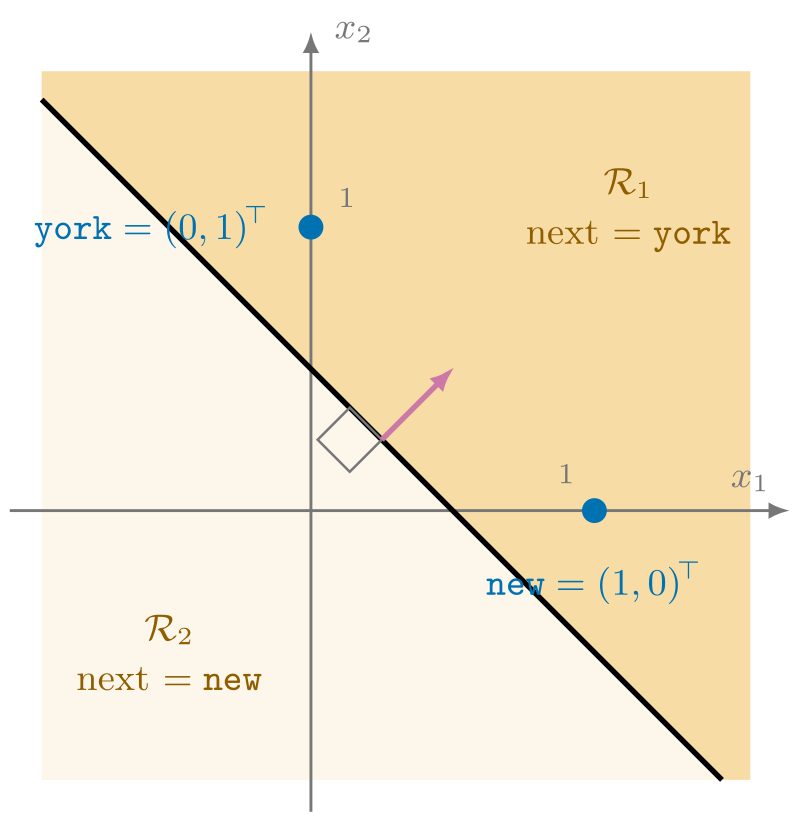
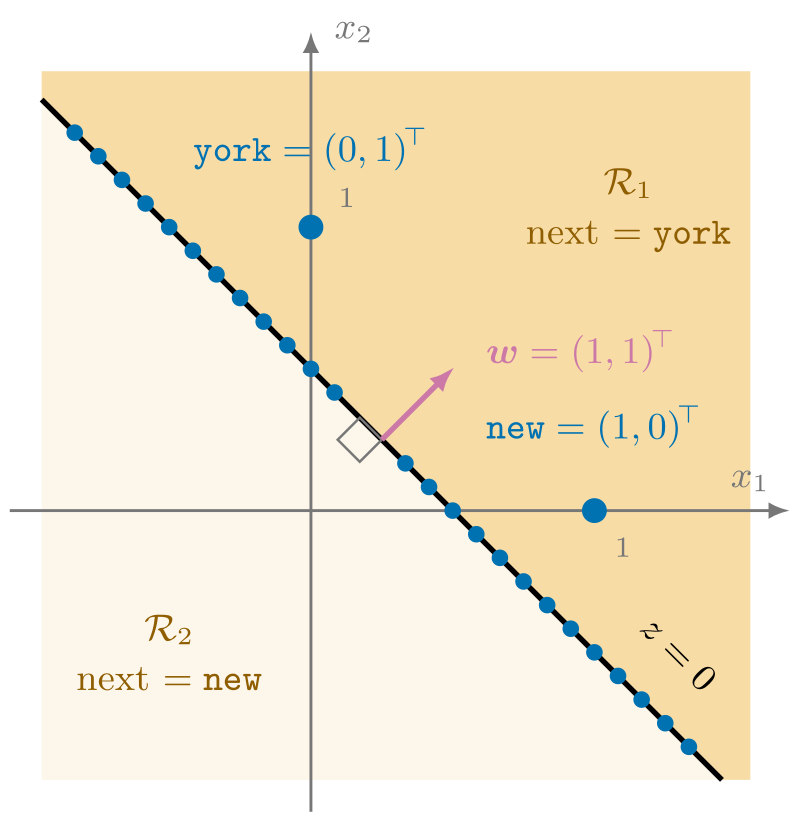
sitp: spec out afterword bridge from borscht to torch

diff --git a/sitp/theme/css/custom.css b/sitp/theme/css/custom.css
@@ -1082,6 +1082,36 @@ html.ayu img.neuron {
   content: url("../../assets/neuron_dark.png");
 }
 
+html.coal img.neuron_linreg,
+html.navy img.neuron_linreg,
+html.ayu img.neuron_linreg {
+  content: url("../../assets/neuron_linreg_dark.png");
+}
+
+html.coal img.discriminant_decisionbad,
+html.navy img.discriminant_decisionbad,
+html.ayu img.discriminant_decisionbad {
+  content: url("../../assets/discriminant_decisionbad_dark.png");
+}
+
+html.coal img.discriminant_decision,
+html.navy img.discriminant_decision,
+html.ayu img.discriminant_decision {
+  content: url("../../assets/discriminant_decision_dark.png");
+}
+
+html.coal img.discriminant_weight_bad,
+html.navy img.discriminant_weight_bad,
+html.ayu img.discriminant_weight_bad {
+  content: url("../../assets/discriminant_weight_bad_dark.png");
+}
+
+html.coal img.discriminant_weight,
+html.navy img.discriminant_weight,
+html.ayu img.discriminant_weight {
+  content: url("../../assets/discriminant_weight_dark.png");
+}
+
 html.coal img.venn,
 html.navy img.venn,
 html.ayu img.venn {

diff --git a/sitp/src/1.md b/sitp/src/1.md
@@ -31,7 +31,7 @@ their *finitely discrete structures* and *deterministic procedures* tooling they
 and make the transition to the *infintely continuous structures* and *stochastic procedures*.
 Back then, ancient greek mathematicians were only comfortable with the finiteness of natural numbers like $1$, $2$, and $3$,
 and had to grapple with the infinite nature of the real numbers such as $\sqrt{2}$, $\pi$, and $e$.
-Similarly, the programmers of today are being asked to transition from programming algorithms of *sets, maps, lists, trees, and graphs*
+Similarly, the programmers of today are being asked to transition from programming algorithms of *sets, maps, lists, trees, and graphs* on serial machines
 to optimizing the distributions of *scalars, vectors, matrices, tensors, and neural networks* on massively parallel machines.
 
 More coloquially, programmers interested in the deep learning approach to artificial intelligence must make the transition
@@ -58,7 +58,7 @@ our own deep neural network like ChatGPT by implementing [`nanochat`](http://git
 and our own deep learning framework like `torch` by implementing <img class="icon" src="./assets/borscht.png" alt="" style="aspect-ratio: 736 / 510;">[`borscht`](https://github.com/j4orz/borscht).
 Whether you're an eager high school student, an up coming college student, or a battle-tested industrial programmer,
 **SITP** has been meticulously designed so that the only prerequisite required
-is a basic familiarity with the elements of programming, and high school calculus.
+is a basic familiarity with the elements of programming, and high school algebra.
 Any additional experience is helpful, not mandatory.
 If you'd like to revisit your programming fundamentals, we recommend DCIC, [The Data Centric Introduction to Computing (Fisler, Krishnamurthi, Lerner, Politz)](https://dcic-world.org/) which uses Pyret graduating to Python, and starts with the table data structure (the `torch.Tensor` in disguise!)<span class="sidenote-number"></span><span class="sidenote">*Also, the principle of the design recipe where code follows data is quite relevant for parallel programming.*</span>.
 
@@ -103,7 +103,7 @@ Down the rabbit hole we go.</br>
   - [I.5 Random Variables and their Distributions]()
   - [I.6 Random Processes and their Kernels]()
   - [I.7 Measurable Spaces]()
-- [2. The Multidimensional Parallelized Tensor](#2-the-multidimensional-tensor)
+- [2. The Multidimensional Parallelized Tensor](#2-the-massively-parallel-multidimensional-tensor)
   - [2.1 The Three Language Problem]()
   - [2.2 Virtualizing Shapes with Strides]()
   - [2.3 Accelerating Basic Linear Algebra on CPUs](#23-accelerating-matrix-multiplication-on-cpus) <!-- with computation and communication of rooflines -->
@@ -118,7 +118,7 @@ Down the rabbit hole we go.</br>
 
 ## 1. Self-Supervised Sequence Learning with Single-Layer Networks
 
-> In which we transition to the stochastic and infinitely continuous software 2.0 by implementing ngram and linear language models with <img class="icon" src="./assets/borscht.png" alt="" style="aspect-ratio: 736 / 510;">[`borscht`]() using the languages of probability theory.
+> In which we transition to the stochastic and infinitely continuous software 2.0 by implementing ngram and linear language models with <img class="icon" src="./assets/borscht.png" alt="" style="aspect-ratio: 736 / 510;">[`borscht.Tensor`]() using the languages of probability theory, linear algebra, and calculus.
 
 ### 1.1 From Certain to Uncertain Knowledge
 <small>[$\hookleftarrow$ Table of Contents](#i-table-of-contents)</small>
@@ -847,7 +847,7 @@ the point $\cin{(1,0)^{\top}}$ for $\cin{\text{new}}$ is located on the $x_1$-ax
 <div class="full-bleed">
 <div class="dual">
 
-<img src="./assets/neuron_linreg.png" alt="" style="display: block; margin: 0 auto;">
+<img class="neuron_linreg" src="./assets/neuron_linreg.png" alt="" style="display: block; margin: 0 auto;">
 
 <img src="./assets/discriminant_onehot_dark.png" alt="" style="display: block; margin: 0 auto;">
 
@@ -862,26 +862,41 @@ the other input $\cin{(1,0)^{\top}}$ for $\cin{\text{york}}$ is incorrectly assi
 
 <div class="dual">
 
-<img src="./assets/discriminant_decisionbad_dark.png" alt="" style="display: block; margin: 0 auto;">
+<img class="discriminant_decisionbad" src="./assets/discriminant_decisionbad.png" alt="" style="display: block; margin: 0 auto;">
 
-<img src="./assets/discriminant_decision_dark.png" alt="" style="display: block; margin: 0 auto;">
+<img class="discriminant_decision" src="./assets/discriminant_decision.png" alt="" style="display: block; margin: 0 auto;">
 
 </div>
 <small>Fijgure I.2.3</small>
 
 Given that $\cparam{\mathbf{w}}$ is the only term left from the neuronal circuit not mentioned,
-you may have already surmised that such a decision boundary $l$ is *determined* by the weight vector $\cparam{\mathbf{w}}$, summed by the input vector $\cin{\mathbf{x}}$ with a weighted sum $\cfun{\sum}$. That is, the decision boundary $l$ is the set of points
+you may have already surmised that such a decision boundary $l$ is *determined* by the weight vector $\cparam{\mathbf{w}}$, summed by the input vector $\cin{\mathbf{x}}$ with a weighted sum $\cfun{\sum}$. Rather than define the decision boundary with an explicit equation of a line, we define it to be the set of all points $\cin{\mathbf{x}}$ that is **perpendicular**<span class="defnote">**perpendicular**</span> to the weight vector $\cparam{\mathbf{w}}$.
 
-$$\{\cin{\mathbf{x}} : \cfun{\sum \limits_{i=1}^{d}}\cparam{w_i} \cin{x_i} = 0 \}$$
+<div class="dual">
+
+<img class="discriminant_weight_bad" src="./assets/discriminant_weight_bad.png" alt="" style="display: block; margin: 0 auto;">
+
+<img class="discriminant_weight" src="./assets/discriminant_weight.png" alt="" style="display: block; margin: 0 auto;">
+
+</div>
+
+How do we define the notion of perpendicularity without using our eye balls?
 
 How can the decision boundary $l$ be defined as a set of points satisfying the property that their weighted sum with the vector $\cparam{w}$ is 0? Where is the $y=mx+b$ we all know from high school?
 
 
-**inner product**<span class="defnote">**inner product**</span>
-**dot product**<span class="defnote">**dot product**</span>
-**orthogonal**<span class="defnote">**orthogonal**</span>
 
-.
+
+- **inner product**<span class="defnote">**inner product**</span>
+- **dot product**<span class="defnote">**dot product**</span>
+- length with **norm**<span class="defnote">**norm**</span>
+- length with **Euclidean norm**<span class="defnote">**Euclidean norm**</span> $\mathcal{l}_1$
+- length with **Manhattan norm**<span class="defnote">**Manhattan norm**</span> $\mathcal{l}_2$
+- distance with **metric**<span class="defnote">**metric**</span>
+- similarity with **angle**<span class="defnote">**angle**</span>
+- pendicularity with **orthogonality**<span class="defnote">**orthogonal**</span>
+-  **rotation**<span class="defnote">**rotation**</span>
+-  **orthogonal projection**<span class="defnote">**orthogonal projection**</span>
 
 and the final classifier has the form $\hat{f}(\cin{\mathbf{x}}):= g(\cfun{\sum \limits_{i=1}^{d}}\cparam{w_i} \cin{x_i})$ where $g: \reals \to V$ is some function
 
@@ -892,14 +907,6 @@ g(z) :=
 \cout{\text{new}}  & \text{if } z \leq 0
 \end{cases}
 $$
-
-<div class="dual">
-
-<img src="./assets/discriminant_weight_bad_dark.png" alt="" style="display: block; margin: 0 auto;">
-
-<img src="./assets/discriminant_weight_dark.png" alt="" style="display: block; margin: 0 auto;">
-
-</div>
 
 $
 \cin{\begin{bmatrix} 1 \\ 0 \end{bmatrix}} \cfun{\cdot}
@@ -917,14 +924,6 @@ $
 \cparam{\begin{bmatrix} 1 \\ -1 \end{bmatrix}} = -1
 $
 
-
-<div class="dual">
-
-<img src="./assets/discriminant_weight_bad_dark.png" alt="" style="display: block; margin: 0 auto;">
-
-<img src="./assets/discriminant_weight_dark.png" alt="" style="display: block; margin: 0 auto;">
-
-</div>
 
 <!-- Then, notice how the map $\hat{f}: \reals^{d} \to \reals$ sends points in $\reals^d$ to real numbers is in fact a *line* $y=wx+b$
 which divides the plane of $\reals^2$ into two regions. Such line is referred to as a **decision boundary**<span class="defnote">**decision boundary**</span> and the regions as **decision regions**<span class="defnote">**decision regions**</span>. -->
@@ -1371,7 +1370,7 @@ and the minimization of the empirical risk finds the parameters for the best pre
 ## Intermezzo One: The Language of Continuous Mathematics
 <small>[$\hookleftarrow$ Table of Contents](#i-table-of-contents)</small>
 
-> ~~Fixed-Size Data~~<span class="sidenote-number"></span><span class="sidenote">*Excerpt from How to Deign Programs (Felleisen et al., 2014)'s [Intermezzo 1: Beginning Student Language](https://htdp.org/2026-5-28//Book/i1-2.html)*</span> [§1. Self-Supervised Sequence Learning with Single-Layer Networks](#1-sequence-learning) deals with ~~BSL~~ [`borscht.Tensor`]() as if it were a natural language. It introduces the “basic words” of the language, suggests how to compose “words” into “sentences,” and appeals to your knowledge of algebra for an intuitive understanding of these “sentences.” While this kind of introduction works to some extent, truly effective communication requires some formal study.
+> ~~Fixed-Size Data~~<span class="sidenote-number"></span><span class="sidenote">*A modified excerpt from How to Deign Programs (Felleisen et al., 2014)'s [Intermezzo 1: Beginning Student Language](https://htdp.org/2026-5-28//Book/i1-2.html)*</span> [§1. Self-Supervised Sequence Learning with Single-Layer Networks](#1-sequence-learning) deals with ~~BSL~~ [`borscht.Tensor`]() as if it were a natural language. It introduces the “basic words” of the language, suggests how to compose “words” into “sentences,” and appeals to your knowledge of algebra for an intuitive understanding of these “sentences.” While this kind of introduction works to some extent, truly effective communication requires some formal study.
 
 <br>
 

diff --git a/sitp/src/after.md b/sitp/src/after.md
@@ -1,89 +1,10 @@
-<div class="full-bleed">
-
-<div class="dual">
-
-
-```
-                         +=========================+                       
-                         |   THE LIQUIDITY CYCLE   |                       
-                         +=========================+                       
-
-
-                                             VENTURE CAPITAL               
-                   _______________      ,.-^=^=^=^=^=^=^=^=^=^;,           
-                 ,;===============>>   E^ a16z   LSVP    Tiger '^3.        
-               .;^                    E^       FF    Social Cap. '^3       
-              //  condensation       .E    Bain   SoftBank  Accel 3^       
-             /|^                     ^E  KP          Benchmark    :^       
-             ||                       ^;:   YC    Greylock   GC  ;3'       
-     ,.^-^-^-^-^-^-^-^-^-^-^;,          ^.=.=_=_=_=_=_=_=_=_=_=_=^         
-    E^ endowments    family '^:.            \\\\\\\\\\\\\\\\\\\\           
-   E^                offices  '^3            \\\\\\\\\\\\\\\\\\\\          
-  E'  pension                  ^3. SOURCE     \\\ precipitation \\         
-  ^;   funds       sovereign   3.' CAPITAL     \\\\\\\\\\\\\\\\\\\\        
-   E;:           wealth funds ,3^  (LPs)        \\\\\\\\\\\\\\\\\\\\       
-    ^;._.._._._._._._._._._._,^                  \\\\\\\\\\\\\\\\\\\\      
-                                                               /\          
-      ^ ^ ^ ^ ^ ^ ^ ^                      gamefi   /\  /\  uber eats      
-      | | | | | | | |                     shitcoins/::\/::\  /::::\   /\   
-      | evaporation |                             / doordash/^^^^^^\ /^^\  
-      | | | | | | | |         ____________       /      \  /     hello   \ 
-                             (poggers desu)     /_____ lime ____ fresh ___\
-    \o/ \oXo/\oXoXo/  o       '=========='       UNPROFITABLE CONSUMER APPS
-     |   | |  | | |  /|\         Oo._ /\_/\                 ,///           
-  __/_\_/_X_\/_X_X_\_/_\__ /_________(@'w'@)_____________.,://'            
-          SOCIETY          \''''''''  -...-''''''''''''''''' surface       
-                                    THE HUMBLE               runoff        
-                                    CAC FARMER 
-```
-
-```
-                         +==========================+
-                         |      THE DATA CYCLE      |
-                         +==========================+
-
-
-                                               FRONTIER LABS
-                   _______________      ,.-^=^=^=^=^=^=^=^=^=^;,
-                 ,;===============>>   E^ OpenAI   Anthropic   '^3.
-               .;^                    E^     Google      xAI     '^3
-              //  labeled data       .E   Meta                    3^
-             /|^                     ^E DeepMind    Mistral       :^
-             ||                       ^;:           Amazon       ;3'
-   ,.^-^-^-^-^-^-^-^-^-^-^;,            ^.=.=_=_=_=_=_=_=_=_=_=_=^
-  E^ Scale AI    Mercor   '^:.              \\\\\\\\\\\\\\\\\\\\
- E^                Surge    '^3              \\\\\\\\\\\\\\\\\\\\
-E'  Appen                    ^3. DATA         \\\ distillation  \\
-^;   Remotasks    Prolific   3.' ANNOTATORS    \\\\\\\\\\\\\\\\\\\\
- E;:           Labelbox     ,3^                 \\\\\\\\\\\\\\\\\\\\
-  ^;._.._._._._._._._._._._,^                    \\\\\\\\\\\\\\\\\\\\
-                                                               /\
-    ^ ^ ^ ^ ^ ^ ^ ^                      DeepSeek   /\  /\  Qwen
-    | | | | | | | |                          Kimi  /::\/::\  /::::\   /\
-    | data extraction |                           / MiniMax /^^^^^^\ /^^\
-    | | | | | | | |          ____________       /      \  /      Yi     \
-                             (AGI 2027 :O)     /____ Baichuan __ GLM ____\
-  \o/ \oXo/\oXoXo/  o        '==========='       CHINESE OPEN-SOURCE LABS
-   |   | |  | | |  /|\          Oo._ /\_/\                  ,///
-__/_\_/_X_\/_X_X_\_/_\__   /_________(@'w'@)_____________.,://'
-        SOCIETY            \''  Cursor-Windsurf ''           MOE
-                                  THE HUMBLE                 runoff
-                                 POST TRAINER
-```
-
-</div>
-
-</div>
-
-[https://phrack.org/issues/71/17_md]()
-
 # Afterword
 
 To continue deepening your knowledge on deep learning and deep learning systems,
 the following provide explicit offramps from SITP bridging you from `nanochat` to `llama`
 and from `borscht` to `torch`.
 Once you feel comfortable, you should graduate towards contributing to
-state of the art network architecture and deep learning systems at the frontier.
+state of the art neural net architecture and deep learning systems at the frontier.
 
 Good luck on your journey.<br>
 I'll see you at work.
@@ -92,3 +13,56 @@ I'll see you at work.
 
 ## From `borscht` to `torch` and `jax`
 
+<div class="toc">
+
+- [1. The Multidimensional Tensor](#1-the-multidimensional-tensor)
+- [2. Standard Continuous Mathematics](#2-standard-continuous-mathematics)
+- [3. Neural Network Primitives](#3-neural-network-primitives)
+
+</div>
+
+### 1. The Multidimensional Tensor
+
+> In which we transition from the `borscht.Tensor` and `borscht.blas` to the [`torch.Tensor`](https://docs.pytorch.org/docs/2.13/tensors.html) and [`cuBLAS`](https://docs.nvidia.com/cuda/cublas/index.html)
+
+#### From `borscht.Tensor` to [`torch.Tensor`](https://docs.pytorch.org/docs/2.13/tensors.html)
+
+#### From `borscht.blas` to [`cuBLAS`](https://docs.nvidia.com/cuda/cublas/index.html)
+
+### 2. Standard Continuous Mathematics
+
+> In which we transition from `borscht.linalg`, `borscht.distributions`, `borscht.lapack` to [`torch.linalg`](https://docs.pytorch.org/docs/2.13/linalg.html), [`torch.distributions`](https://docs.pytorch.org/docs/2.13/generated/torch.dist.html) and [`cuSOLVER`](https://docs.nvidia.com/cuda/cusolver/index.html)
+
+#### From `borscht.linalg` to [`torch.linalg`](https://docs.pytorch.org/docs/2.13/linalg.html)
+
+**Solvers**
+- [`torch.linalg.lstsq`](https://docs.pytorch.org/docs/2.13/generated/torch.linalg.lstsq.html)
+- [`torch.linalg.solve_triangular`](https://docs.pytorch.org/docs/2.13/generated/torch.linalg.lu_solve.html)
+- [`torch.linalg.lu_solve`](https://docs.pytorch.org/docs/2.13/generated/torch.linalg.lu_solve.html)
+
+**Decompositions**
+
+- [`torch.linalg.cholesky`](https://docs.pytorch.org/docs/2.13/generated/torch.linalg.cholesky.html)
+- [`torch.linalg.qr`](https://docs.pytorch.org/docs/2.13/generated/torch.linalg.qr.html)
+- [`torch.linalg.lu`](https://docs.pytorch.org/docs/2.13/generated/torch.linalg.lu.html)
+- [`torch.linalg.svd`](https://docs.pytorch.org/docs/2.13/generated/torch.linalg.svd.html)
+- [`torch.linalg.eig`](https://docs.pytorch.org/docs/2.13/generated/torch.linalg.eig.html)
+
+#### From `borscht.lapack` to [`cuSOLVER`](https://docs.nvidia.com/cuda/cusolver/index.html)
+
+#### From `borscht.distributions` to [`torch.distributions`](https://docs.pytorch.org/docs/2.13/generated/torch.dist.html)
+
+- [`torch.distributions.Normal`](https://docs.pytorch.org/docs/2.13/distributions.html#normal)
+- [`torch.distributions.Categorial`](https://docs.pytorch.org/docs/2.13/distributions.html#categorical)
+- [`torch.distributions.Bernouilli`](https://docs.pytorch.org/docs/2.13/distributions.html#bernouilli)
+- [`torch.distributions.Uniform`](https://docs.pytorch.org/docs/2.13/distributions.html#uniform)
+
+### 3. Neural Network Primitives
+
+> In which we transition from `borscht.nn`, `borscht.optim` and `borscht.dnn` to [`torch.nn`](https://docs.pytorch.org/docs/2.13/nn.html), [`torch.optim`](https://docs.pytorch.org/docs/2.13/optim.html) and [`cuDNN`](https://docs.nvidia.com/deeplearning/cudnn/latest/)
+
+#### From `borscht.nn` to [`torch.nn`](https://docs.pytorch.org/docs/2.13/nn.html)
+
+#### From `borscht.optim` to [`torch.optim`](https://docs.pytorch.org/docs/2.13/optim.html)
+
+#### From `borscht.dnn` to [`cuDNN`](https://docs.nvidia.com/deeplearning/cudnn/latest/)

diff --git a/sitp/src/pref.md b/sitp/src/pref.md
@@ -19,8 +19,8 @@ and ending with programming their own programming languages with virtual interpr
 
 </div>
 
-My alma matter was amongst those which took the SICP approach<span class="sidenote-number"></span><span class="sidenote">*Actually it's Scheming dual, [HtDP](https://htdp.org/). Thank you [Professor. Vasiga](https://cs.uwaterloo.ca/~tmjvasig/), and [Professor Ragde](https://cs.uwaterloo.ca/~plragde/flaneries/) for bringing over HtDP to our school!*</span>, and as intended,
-for someone coming into first year college have taken computer science in high school<span class="sidenote-number"></span><span class="sidenote">*Thank you to Professor Vasiga once again actually for [cscircles](https://cscircles.cemc.uwaterloo.ca/) and thank you Mr. Gould for offering a computer engineering course!*</span>, it blew my mind.
+My alma matter was amongst those which took the SICP approach<span class="sidenote-number"></span><span class="sidenote">*Actually it's Scheming dual, [HtDP](https://htdp.org/). Thank you [Professor. Vasiga](https://cs.uwaterloo.ca/~tmjvasig/), and [Professor Ragde](https://cs.uwaterloo.ca/~plragde/flaneries/) for bringing over HtDP to Waterloo.*</span>, and as intended,
+for someone coming into first year college have taken computer science in high school, it blew my mind.
 After graduating college in 2022, I followed my curiosity for diving deeper into the souls of our machine by going on to developing industrial languages and
 runtimes.<span class="sidenote-number"></span><span class="sidenote">*"There is only one project, architecture, operating system and languages, compiler, it's only one project. It's all together." -- Boris Babayan*</span>.
 Particularly, I hacked on languages with [domain specific cloud compilers](https://www.infoq.com/presentations/deploy-pipelines-coinbase/)
@@ -58,7 +58,7 @@ $$
 where the function $HTDP(\cdot)$ is the systematic and principled design of a curriculum implemented by course developers that descend from the HtDP lineage<span class="sidenote-number"></span><span class="sidenote">*"I think of the position as having “twice” the teaching and “half” the research as an assistant professor (of course individual approaches can and do differ!)." -- [@JoePolitz, September 5, 2024](https://x.com/JoePolitz/status/1831797256871375332)*</span>. The two guiding principles for SITP are the following:
 
 1. *the concreteness fading [(Fyfe et al., 2014)](https://eric.ed.gov/?id=EJ1036777) of declarative concepts in mathematics [(Hestenes et al., 1992)](https://gwern.net/doc/science/physics/1992-hestenes.pdf)* by presenting  notions just in time by defining them by their context, and iteratively refining such concepts from the informal to formal ending in HtDP-style Intermezzos<span class="sidenote-number"></span><span class="sidenote">*Which present the formal syntax and semantics of a language.*</span>.
-2. that *transfer [(Bransford, Shwartz 1999)](https://journals.sagepub.com/doi/abs/10.3102/0091732x024001061) to procedural skills of computation* [(Price et al., 2021)](https://www.lifescied.org/doi/pdf/10.1187/cbe.20-12-0276) in the context of deep learning. Such transfer is possible because the computational discipline of deep learning has lots of structural similarity with mathematics, and is why we have books such as [Deisenroth et al., (2020)](https://mml-book.github.io/).
+2. that *transfer [(Bransford, Shwartz 1999)](https://journals.sagepub.com/doi/abs/10.3102/0091732x024001061) to procedural skills of computation* [(Price et al., 2021)](https://www.lifescied.org/doi/pdf/10.1187/cbe.20-12-0276) in the context of deep learning. Such transfer is possible because the computational discipline of deep learning has lots of structural similarity with mathematics, and is why we have books such as [Deisenroth et al., (2020)](https://mml-book.github.io/), and subsequent courses follwing such book, for instance [Princeton's](https://www.cs.princeton.edu/courses/archive/spring21/cos302/) [COS302](https://www.youtube.com/playlist?list=PLCO4cUaBLHFEHo42HVIVWaSOvbAiH30uc)<span class="sidenote-number"></span><span class="sidenote">*"Offered by Ryan Adams, who's lab led by Matthew Johnson, Dougal Maclaurin, and David Duvenaud created [HIPS/autograd](https://github.com/hips/autograd), which inspired PyTorch. See [https://soumith.ch/blog/2023-12-17-pytorch-design-origins.md.html#/origins](https://soumith.ch/blog/2023-12-17-pytorch-design-origins.md.html#/origins)*</span>.
 
 <!-- explicit instruction, and a process for performing procedural skills*. -->
 
